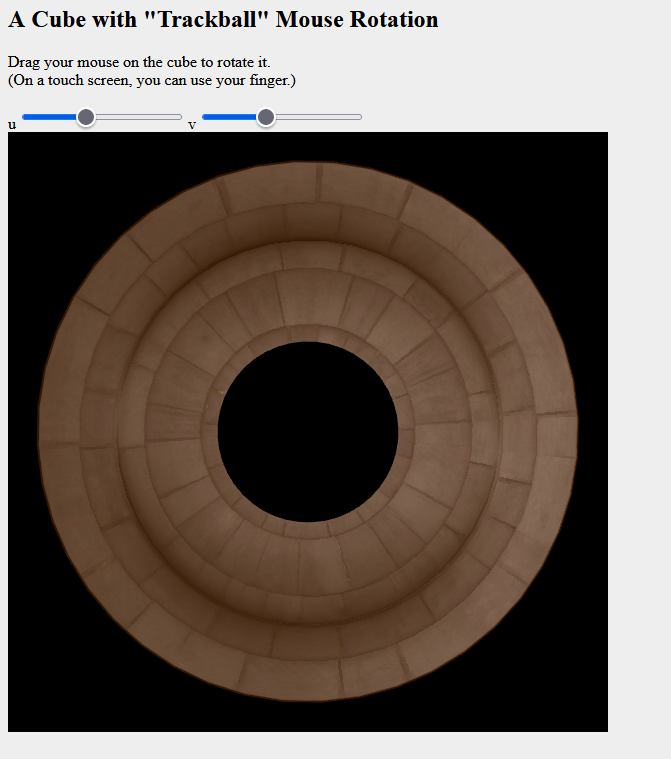
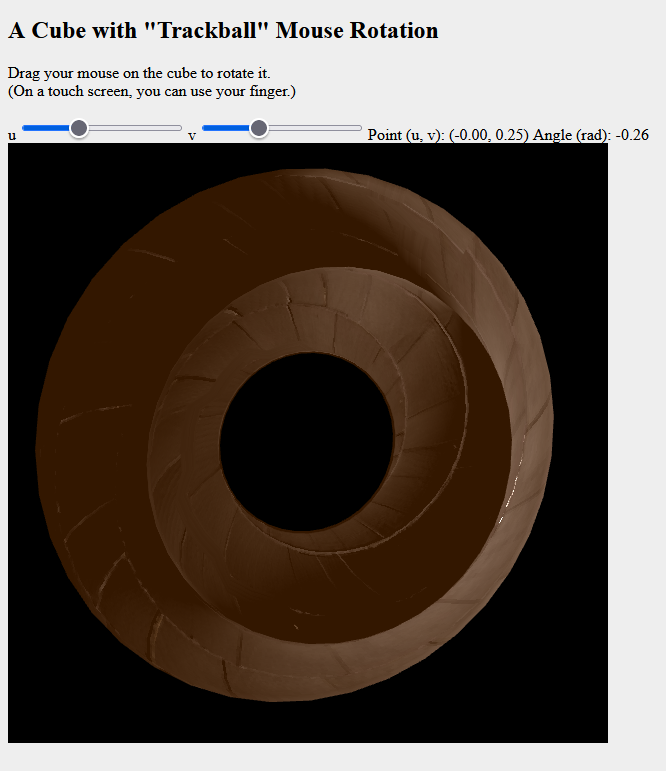
init cgw

diff --git a/main.js b/main.js
@@ -8,6 +8,8 @@ let spaceball;                  // A SimpleRotator object that lets the user rot
 
 let lightAngle = 0; 
 let lightRadius = 20.0; 
+let step_move = 0.01;
+let step_angle = 15; // deg
 
 function updateLightPosition() { 
     lightAngle += 0.01; 
@@ -77,6 +79,10 @@ function draw() {
 
     //updateLightPosition();
     gl.uniform3fv(shProgram.iLightSource, [0.0, 10.0, 0.0]); 
+
+    gl.uniform2fv(shProgram.ipoint, surface.point);
+    gl.uniform2fv(shProgram.ioffset, surface.offset);
+    gl.uniform1f(shProgram.iangle, surface.angle);
     
     /* Draw the six faces of a cube, with different colors. */
     gl.uniform4fv(shProgram.iColor, [1,1,0,1] );
@@ -105,6 +111,9 @@ function initGL(count_u, count_v) {
     shProgram.ispecularTexture           = gl.getUniformLocation(prog, "specularTexture");
     shProgram.inormalTexture             = gl.getUniformLocation(prog, "normalTexture");
     shProgram.inormalMatrix              = gl.getUniformLocation(prog, "normalMatrix");
+    shProgram.ipoint                     = gl.getUniformLocation(prog, "point");
+    shProgram.ioffset                    = gl.getUniformLocation(prog, "offset");
+    shProgram.iangle                     = gl.getUniformLocation(prog, "angle");
 
     surface = new Model('Surface', count_u, count_v);
     surface.BufferData();
@@ -145,6 +154,53 @@ function createProgram(gl, vShader, fShader) {
     return prog;
 }
 
+function updateData() {
+	const point = document.getElementById("point");
+	const angle = document.getElementById("angle");
+
+	point.textContent = `(${surface.offset[0].toFixed(2)}, ${surface.offset[1].toFixed(2)})`;
+	angle.textContent = surface.angle.toFixed(2);
+}
+
+function handleKeyDown(event) {
+	switch (event.key) {
+		case "a":
+		case "A":
+            surface.offset[0] -= step_move;
+            surface.offset[0] = surface.offset[0] % 1;
+			break;
+		case "d":
+		case "D":
+			surface.offset[0] += step_move;
+            surface.offset[0] = surface.offset[0] % 1;
+			break;
+		case "w":
+		case "W":
+			surface.offset[1] += step_move;
+            surface.offset[1] = surface.offset[1] % 1;
+			break;
+		case "s":
+		case "S":
+			surface.offset[1] -= step_move;
+            surface.offset[1] = surface.offset[1] % 1;
+			break;
+		case "q":
+		case "Q":
+			surface.changeAngle(step_angle);
+			// surface.BufferData();
+            // surface.loadTextures();
+			break;
+        case "e":
+        case "E":
+            surface.changeAngle(-step_angle);
+            // surface.BufferData();
+            // surface.loadTextures();
+            break;
+	}
+	updateData();
+	draw();
+}
+
 
 /**
  * initialization function that will be called when the page has loaded
@@ -177,5 +233,7 @@ function init() {
     spaceball = new TrackballRotator(canvas, draw, 0);
 
     draw();
+    window.addEventListener("keydown", handleKeyDown);
     //animate();
 }
+document.addEventListener("DOMContentLoaded", init);

diff --git a/Model.js b/Model.js
@@ -92,6 +92,10 @@ function Model(name, count_u, count_v) {
     this.iTangentBuffer = gl.createBuffer();
     this.count = 0;
 
+    this.point = [0,0];
+    this.angle = 0.0;
+    this.offset = [0,0];
+
     this.textureDiffuse = gl.createTexture();
     this.textureNormal = gl.createTexture();
     this.textureSpecular = gl.createTexture();
@@ -105,6 +109,17 @@ function Model(name, count_u, count_v) {
     this.u_polylines = getPolylines(U_SPACE[0], this.COUNT_POINTS_U, this.STEP_U);
     this.v_polylines = getPolylines(V_SPACE[0], this.COUNT_POINTS_V, this.STEP_V);
 
+    this.movePoint = function(delta){
+        this.point[0] += delta[0];
+        this.point[1] += delta[1];
+
+        this.point[0] = this.point[0] % 1;
+        this.point[1] = this.point[1] % 1;
+    }
+
+    this.changeAngle = function(deltaAngle){
+        this.angle += deg2rad(deltaAngle);
+    }
 
     this.BufferData = function() {
         let data = this.CreateSurfaceData(this.u_polylines, this.v_polylines);
@@ -251,7 +266,19 @@ function Model(name, count_u, count_v) {
     this.calcTexCoords = function(texCoordsList){
         for(let u=0; u < this.COUNT_POINTS_U; u++){
             for(let v=0; v < this.COUNT_POINTS_V; v++){
-                texCoordsList.push(u / this.COUNT_POINTS_U, v / this.COUNT_POINTS_V);
+                // let tmp_u = u / this.COUNT_POINTS_U - this.point[0];
+                // let tmp_v = v / this.COUNT_POINTS_V - this.point[1];
+                
+                // let c = Math.cos(this.angle);
+                // let s = Math.sin(this.angle);
+
+                // tmp_u = tmp_u * c - tmp_v * s + this.point[0];
+                // tmp_v = tmp_u * s - tmp_v * c + this.point[1];
+
+                let tmp_u = u / this.COUNT_POINTS_U;
+                let tmp_v = v / this.COUNT_POINTS_V;
+
+                texCoordsList.push(tmp_u, tmp_v);
             }
         }
     }

diff --git a/index.html b/index.html
@@ -2,7 +2,7 @@
 <html><head><meta http-equiv="Content-Type" content="text/html; charset=UTF-8">
 
 
-<title>PA#3</title>
+<title>CGW</title>
 <style>
     body {
         background-color: #EEEEEE;
@@ -27,6 +27,13 @@
 <input type="range" name="u" id="u" min="10" max="100" step="5" value="40">
 <label for="V">v</label>
 <input type="range" name="v" id="v" min="10" max="100" step="5" value="40">
+
+
+<label>Point (u, v):</label>
+<span id="point">(0, 0)</span>
+
+<label>Angle (rad):</label>
+<span id="angle">0</span>
 
 <div id="canvas-holder">
    <canvas width="600" height="600" id="webglcanvas" style="background-color:red"></canvas>
